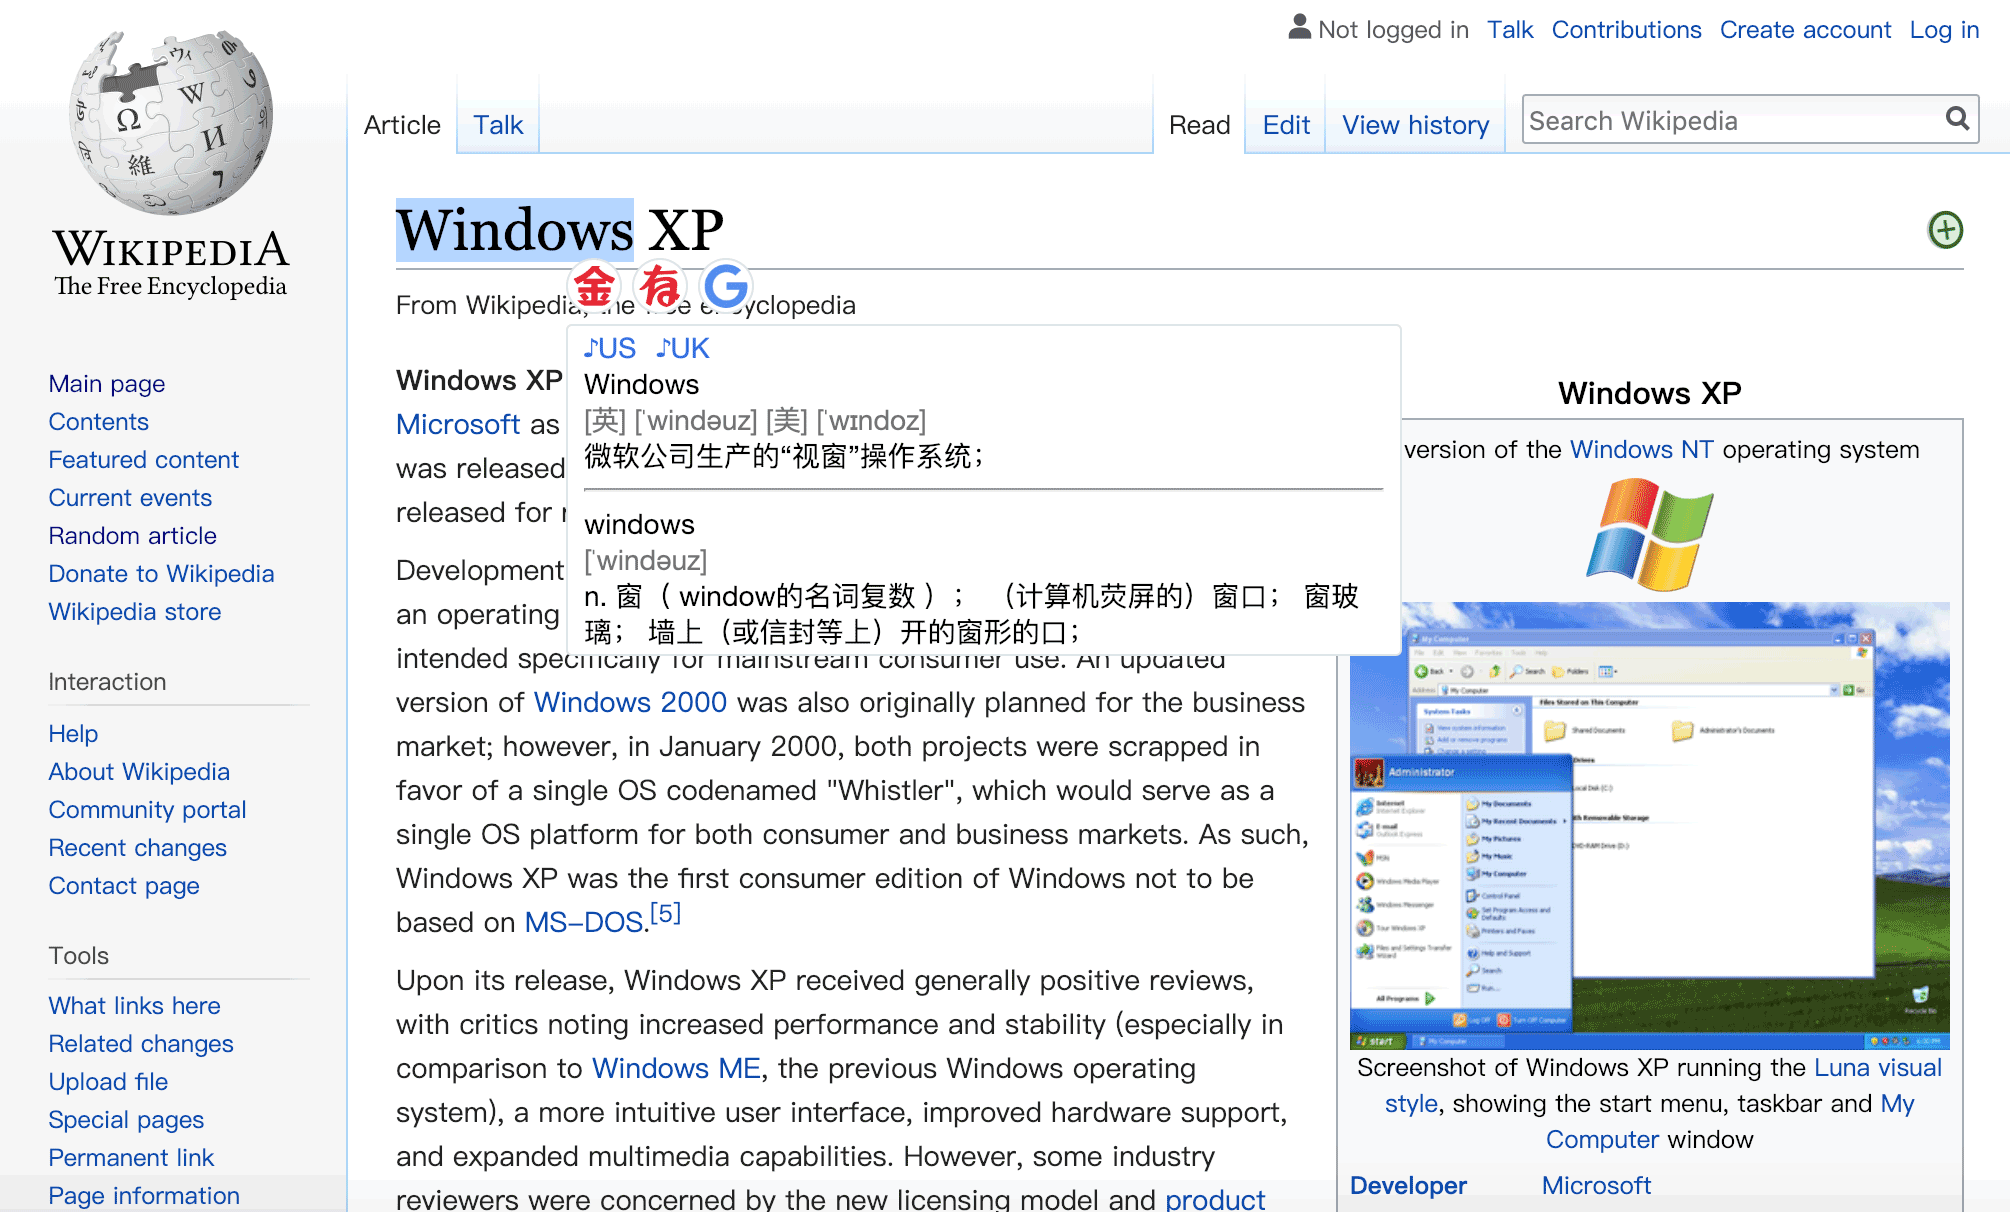
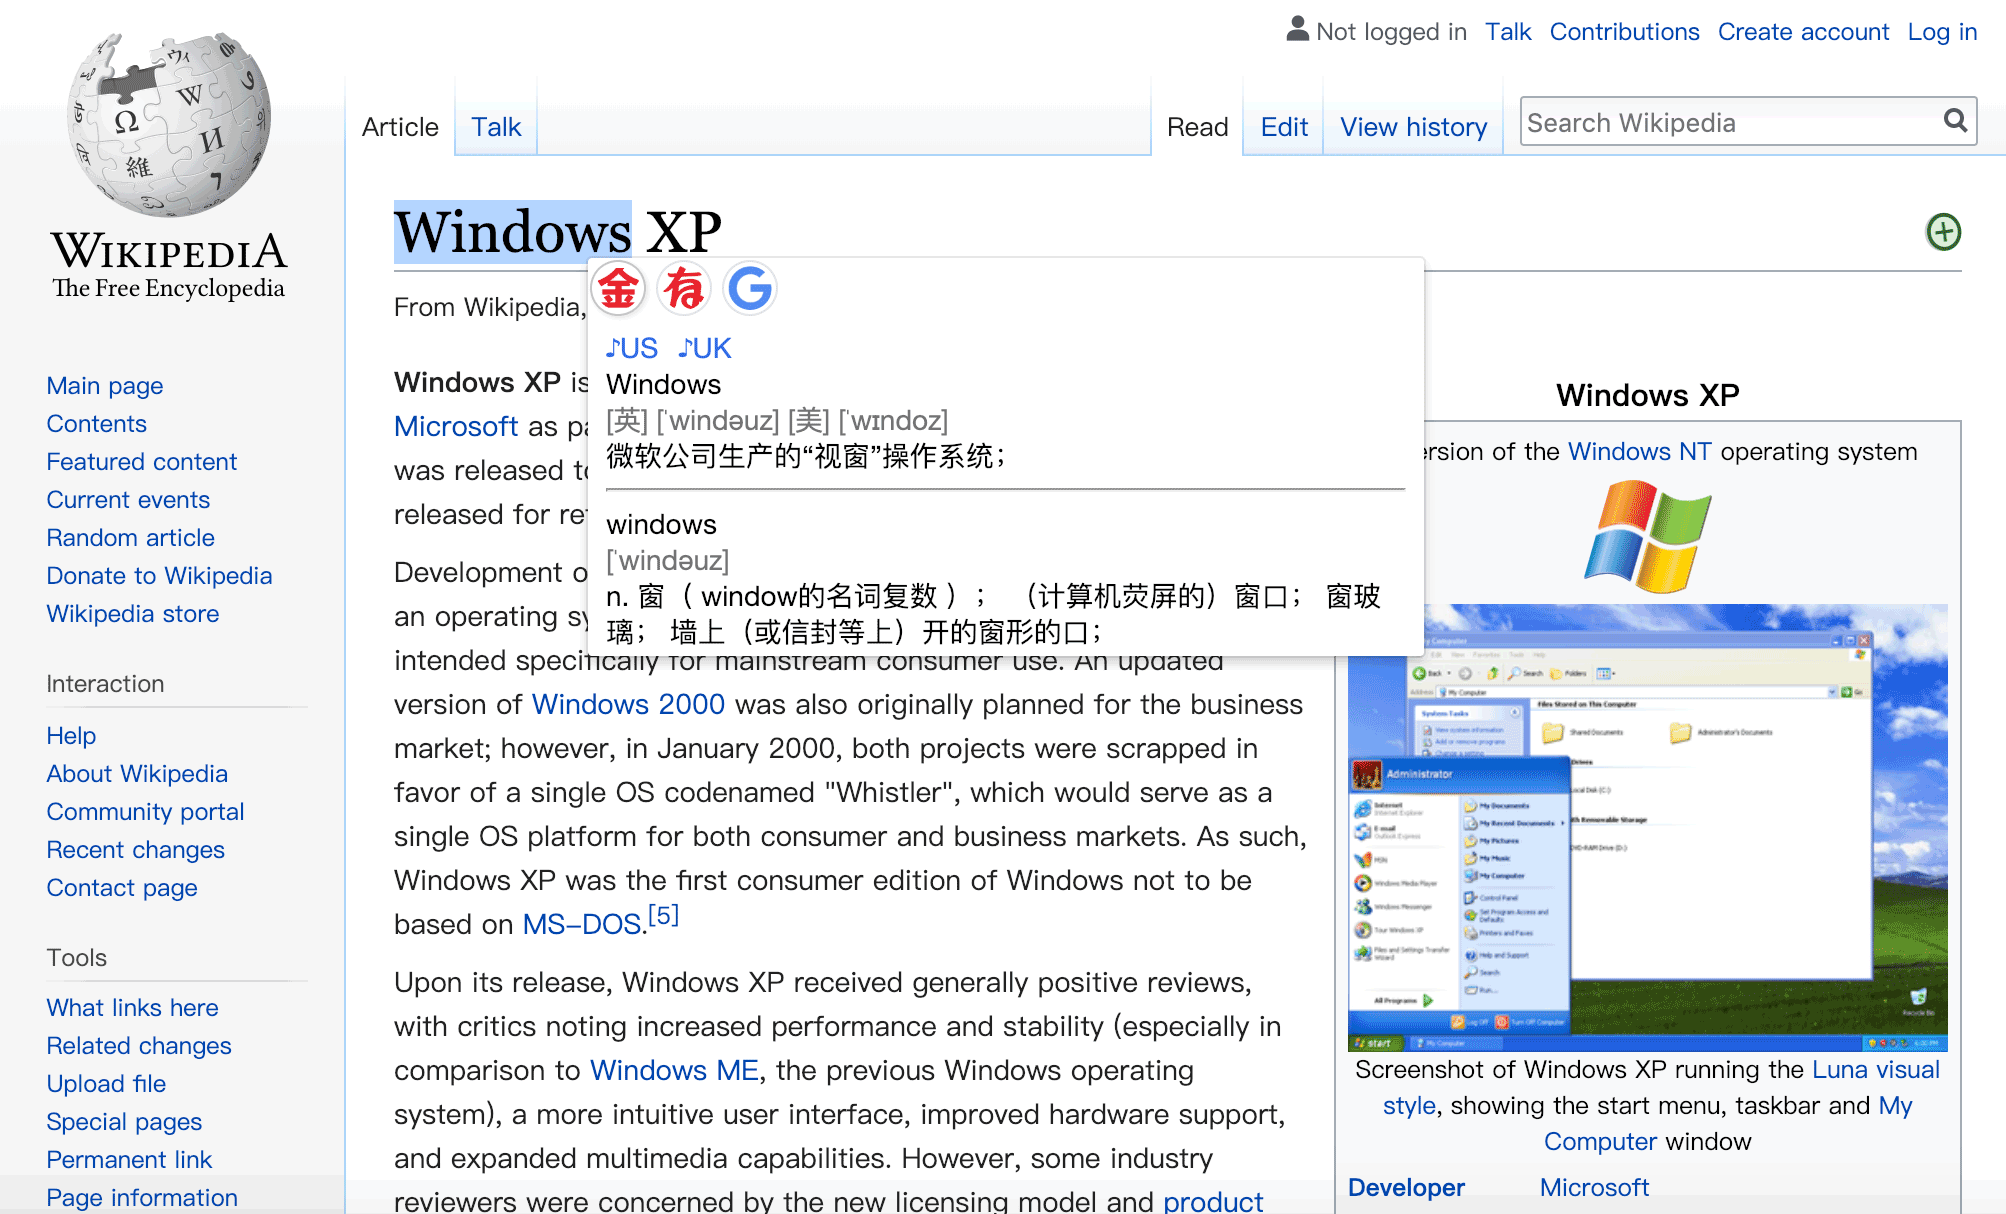
排版样式更新

diff --git a/translate/translate-dictionary.js b/translate/translate-dictionary.js
@@ -1,7 +1,7 @@
 // ==UserScript==
 // @name         划词翻译：有道词典，金山词霸，谷歌翻译
 // @namespace    http://tampermonkey.net/
-// @version      1.2
+// @version      1.3
 // @description  划词翻译调用“有道词典（有道翻译）、金山词霸、谷歌翻译”
 // @author       https://github.com/barrer
 // @match        http://*/*
@@ -40,19 +40,33 @@
         vertical-align: middle;
     }
     
+    img:last-of-type {
+        margin-right: auto;
+    }
+    
+    img[activate],
+    img:hover {
+        border: 1px solid #c6c6c6;
+        -webkit-box-shadow: 1px 1px 3px rgba(0, 0, 0, 0.1);
+        box-shadow: 1px 1px 3px rgba(0, 0, 0, 0.1);
+    }
+    
     tr-icon {
         display: none;
         position: absolute;
-        padding: 0;
+        padding: 1px;
         margin: 0;
         cursor: move;
         box-sizing: content-box;
         font-size: 13px;
         text-align: left;
         border: 0;
-        background: transparent;
         color: black;
         z-index: 2147483647;
+        background: #fff;
+        border-radius: 2px;
+        -webkit-box-shadow: 0 3px 8px 0 rgba(0, 0, 0, 0.2), 0 0 0 1px rgba(0, 0, 0, 0.08);
+        box-shadow: 0 3px 8px 0 rgba(0, 0, 0, 0.2), 0 0 0 1px rgba(0, 0, 0, 0.08);
     }
     
     tr-audio {
@@ -70,14 +84,16 @@
         margin-right: auto;
     }
     
+    tr-audio a:hover {
+        text-decoration: underline;
+    }
+    
     tr-content {
         display: block;
         max-width: 400px;
         max-height: 200px;
         overflow: auto;
-        border: 1px solid #dfe1e5;
         background: white;
-        border-radius: 3px;
         padding: 2px 8px;
         margin-top: 5px;
         box-sizing: content-box;
@@ -122,11 +138,11 @@
     #google .pos:after {
         content: "]";
     }
-
+    
     #google .terms:before {
         content: "【";
     }
-
+    
     #google .terms:after {
         content: "】";
     }
@@ -134,38 +150,38 @@
     #google .terms {
         margin-right: .2em;
     }
-
+    
     #youdao .phone {
         color: #777;
     }
-
+    
     #youdao .phone:before {
         content: "[";
     }
-
+    
     #youdao .phone:after {
         content: "]";
     }
-
+    
     #youdao .phrs:before {
         content: "[短语]";
         display: block;
     }
-
+    
     #youdao .trs>.tr>.exam:before {
         content: "[例句]";
         display: block;
     }
-
+    
     #youdao .trs>.tr>.l:before {
         content: "[释义]";
         display: block;
     }
-
+    
     #youdao [class="#text"] {
         font-style: italic;
     }
-
+    
     #youdao .return-phrase,
     #youdao [class="@action"],
     #none {
@@ -259,10 +275,12 @@
         img.setAttribute('src', obj.image);
         img.setAttribute('alt', obj.name);
         img.setAttribute('title', obj.name);
+        img.setAttribute('id', obj.id);
         img.addEventListener('mouseup', function () {
             if (iconDrag.elementOriginalLeft == parseInt(icon.style.left) &&
                 iconDrag.elementOriginalTop == parseInt(icon.style.top)) { // 没有拖动鼠标抬起的时候触发点击事件
                 engineId = obj.id; // 翻译引擎 ID
+                engineActivateShow(); // 显示翻译引擎指示器
                 obj.trigger(selected); // 启动翻译引擎
             }
         });
@@ -310,6 +328,7 @@
             log('hide icon');
             icon.style.display = 'none';
             content.style.display = 'none';
+            engineActivateHide();
             // 强制设置鼠标拖动事件结束，防止由于网页本身的其它鼠标事件冲突而导致没有侦测到：mouseup
             iconDrag.dragging = false;
             iconDrag.unsetMouseMove();
@@ -322,6 +341,7 @@
         if (!window.getSelection().toString().trim()) {
             icon.style.display = 'none';
             content.style.display = 'none';
+            engineActivateHide();
         }
     });
     /**日志输出*/
@@ -470,6 +490,17 @@
         }
         content.style.display = 'block';
     }
+    /**隐藏翻译引擎指示器*/
+    function engineActivateHide() {
+        icon.querySelectorAll('img[activate]').forEach(function (ele) {
+            ele.removeAttribute('activate');
+        });
+    }
+    /**显示翻译引擎指示器*/
+    function engineActivateShow() {
+        engineActivateHide();
+        icon.querySelector('img#' + engineId).setAttribute('activate', 'activate');
+    }
     /**美式发音*/
     function playUS() {
         var url = 'http://dict.youdao.com/dictvoice?audio=' + selected + '&type=2';
@@ -509,20 +540,24 @@
                 var trs = word.trs,
                     ukphone = word.ukphone,
                     usphone = word.usphone,
-                    phone = word.phone;
+                    phone = word.phone,
+                    returnPhrase = word['return-phrase'];
+                if (returnPhrase && returnPhrase.l && returnPhrase.l.i) {
+                    html += '<div>' + returnPhrase.l.i + '</div>';
+                }
+                html += '<div>';
                 if (ukphone && ukphone.length != 0) {
-                    html += '<span style="' + phoneStyle + '">英[' + ukphone + '] </span>';
+                    html += '<span style="' + phoneStyle + '">[英] [' + ukphone + '] </span>';
                 }
                 if (usphone && usphone.length != 0) {
-                    html += '<span style="' + phoneStyle + '">美[' + usphone + '] </span>';
+                    html += '<span style="' + phoneStyle + '">[美] [' + usphone + '] </span>';
                 }
-                if (html.length != 0) {
-                    html += '<br>';
-                } else if (phone && phone.length != 0) {
-                    html += '<span style="' + phoneStyle + '">[' + phone + '] </span><br>';
+                html += '</div>';
+                if (phone && phone.length != 0) {
+                    html += '<div style="' + phoneStyle + '">[' + phone + '] </div>';
                 }
                 trs.forEach(element => {
-                    tr += element.tr[0].l.i[0] + '<br>';
+                    tr += '<div>' + element.tr[0].l.i[0] + '</div>';
                 });
                 html += tr;
             }
